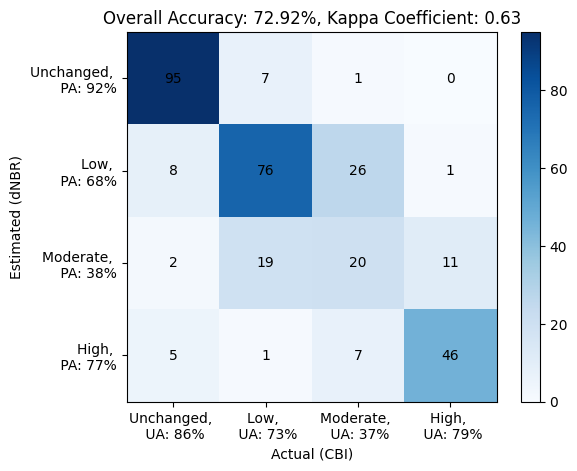
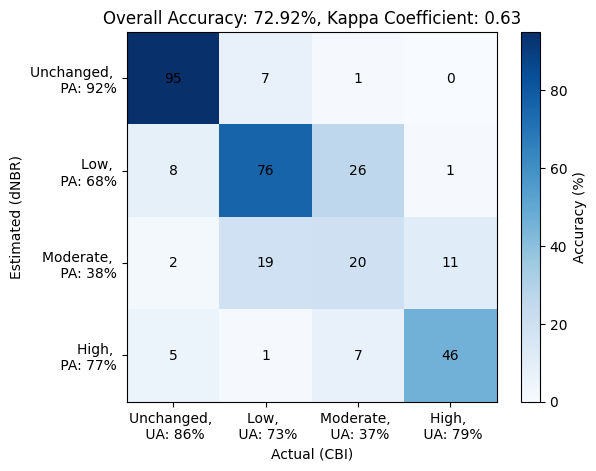
colourbar label

diff --git a/confusion_matrix_dNBR.py b/confusion_matrix_dNBR.py
@@ -47,6 +47,7 @@ ax.yaxis.tick_left()
 
 # Add colorbar
 cbar = fig.colorbar(cax)
+cbar.set_label('Accuracy (%)')
 
 # Add text annotations to the cells
 for i in range(len(class_names)):
@@ -64,3 +65,15 @@ ax.set_ylabel('Estimated (dNBR)')
 plt.savefig('confusion_matrix_dNBR.png', bbox_inches='tight', pad_inches=0.1)
 
 plt.show()
+
+
+
+# from mlxtend.plotting import plot_confusion_matrix
+
+# multiclass = np.array(confusion_matrix)
+
+# fig, ax = plot_confusion_matrix(conf_mat=multiclass,
+#                                 colorbar=True,
+#                                 show_absolute=False,
+#                                 show_normed=True)
+# plt.show()

diff --git a/confusion_matrix_dNBR_plus.py b/confusion_matrix_dNBR_plus.py
@@ -47,6 +47,7 @@ ax.yaxis.tick_left()
 
 # Add colorbar
 cbar = fig.colorbar(cax)
+cbar.set_label('Accuracy (%)')
 
 # Add text annotations to the cells
 for i in range(len(class_names)):
